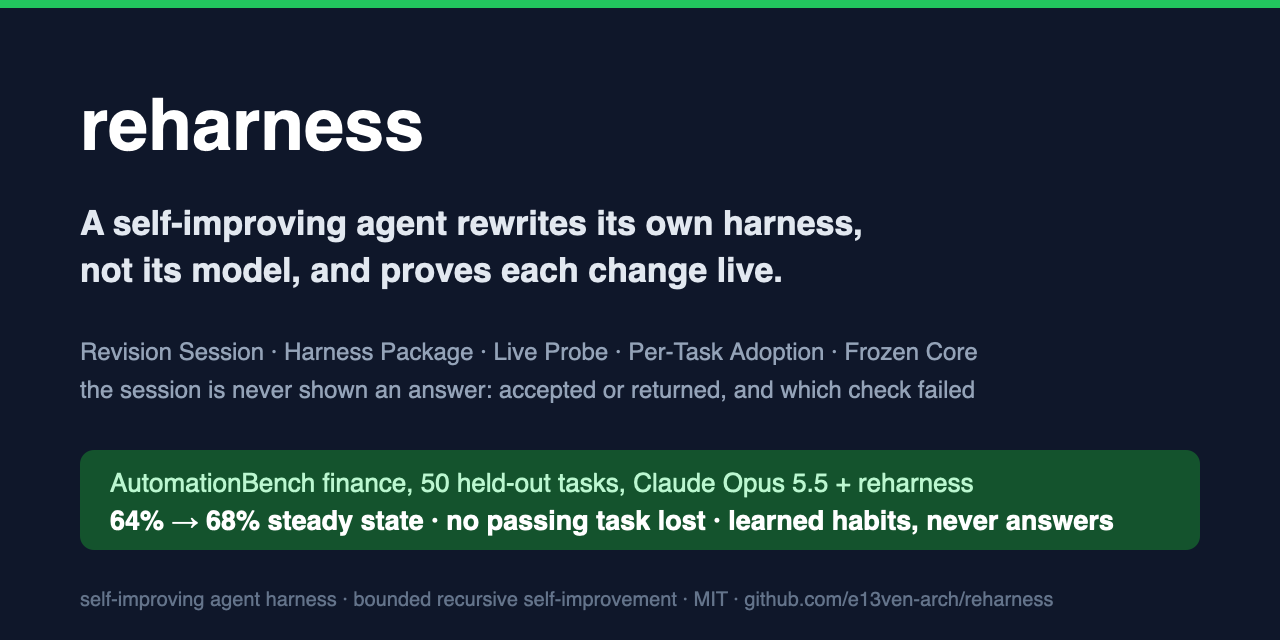
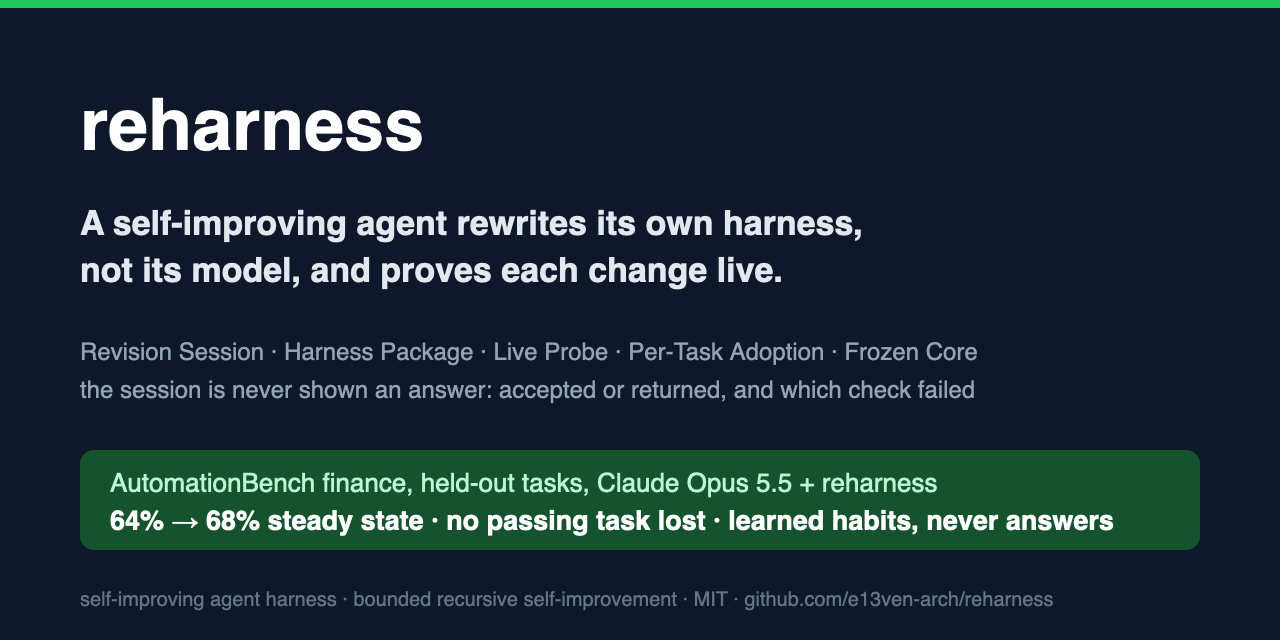
Results table as metrics only (the user: no "private set / all domains" wording, no task counts): leaderboard rows named plainly, the reharness rows by domain and setting; the intro and the social card drop the task count; GitHub About description, website and 18 topics set with gh repo edit at the 

Changed region(s): [[0.3125, 0.7188, 0.7812, 0.7812]]

diff --git a/docs/PLAN.md b/docs/PLAN.md
@@ -122,7 +122,7 @@
 | # | 事项 | 建议 |
 |---|---|---|
 | 0 | 2026-10-26 评审读者报的过时文档，未清（只影响读者，不影响运行）：IMPROVER §3～§7 的签名与代码漂移（`run_round`、`Evidence`、`diagnose`、`CodingSession`）、§1 仍把轮次说成改进器的全部；EVALUATE §3 接口块与 §5 接受规则是 v1.2 前的、§2 文件表漏 `repeat.py`；MEMORY §4 签名、§7.0/§9 的"待做"；RUNTIME §2 漏 `trace.py`、§4 协议表缺 `aux`/`read_only`；DESIGN 头部"状态：待用户审"、§4.3 三个站点、§5 memory 作为活跃组件、§6.1～§6.22 约 270 行描述已被取代的轮次回路；训练栈与 providers 的 docstring 引用已删的 docs/modules/*、ROADMAP、V0_6_DESIGN；tests/fake_upstream/README 与几处测试 docstring 同样。另：`apply_patch`、`ScriptedChat`、`write_guard` 的 `_42` 参数只剩测试在用 | 建议：开源后按读者的清单分两次清——先文档引用（$0，半天），再决定轮次回路、memory、训练栈是否整体归档到 tag |
-| 1 | 2026-10-24：finance-v18 学习臂跑完（50 道 test，$183.77）：**e1 32/50 → e3 34/50，+4.0 [−4.0, +12.0]**；18 道退单修 3 道且站住，零退步（JOURNAL 4o 一条的 v18 补记）。逐题读数（JOURNAL 同条）：15 道留 base 的题 7 道是数值 / 档位错、6 道是项目范围错、2 道是渠道错，R 的候选 12 道改在别处——一比特反馈不说哪一项错。已定（2026-10-24）：阶段 4p 专项——退回项反馈 + R 造工具，种子不动，只用两三道 train 题验证（DESIGN §6.24）。阶段 4p 收尾（JOURNAL 4p 一条的"整体效果"段）。finance-v24（effort max，三道 train 题，$61.11，4 小时）跑完：税额题 R 一个会话建全"读齐源 + 工具"并**稳态站住**（medium 三个活动没做到）；工时题 R 被 32k 输出上限截断、被接受的候选没交上去；grant 首遇在 max 下直接过。评审与清理（2026-10-26，JOURNAL 同日"评审与清理"一条）：工作流 11 读者 / 20 反驳 / 3 视角；删了 9 处验证过的死代码（231 行净减）、六份设计文档的迁移两节改成一行指向 tag；README 英 / 中按"故事怎么改"重写（回路开头、mermaid 架构图、How it works 六小节、What it achieves、留出回路降为一段）；发布稿含架构；示例 README、ACTIVITY §3、设计索引、finance-v18 头补齐。待清的过时文档见 §3。README 的两张图（2026-10-26，JOURNAL 同日"两张图"一条）：`docs/assets/architecture.svg`（组件与架构）与 `docs/assets/one-improvement.svg`（一次提升如何发生，税额题七格），README 英 / 中改用包装后的概念名（Revision Session、Live Probe、Per-Task Adoption……），发布稿的 mermaid 换成这两张图。两张图重画（2026-10-27，JOURNAL 同日一条；用户要严谨的逻辑而非实验记录）：评审工作流 5 视角 / 8 反驳 / 1 合成，结论图一混合体、图二实验记录；图一改为 K 四条不变量（Package Contract 含"包里没有答案"、Host-Side Scorer、Feedback Tier 作为唯一边界、Bounds）、W₀ + W_t、worker 虚线边界、准入门代替 Preflight Checks、采用框移到宿主一侧并画两条分支、五条不变量；图二改为评分器横带 + 三个菱形门 + 两条回边，例子降为无金额的灰带；README 英 / 中同步（四条不变量、候选与准入、去掉 "$0" 与"不可能弄坏"）。三个 README commit 已推送并合入 main（`fa52cf2`，2026-10-27，用户要求）。宣传语、结果一节、可发现性（2026-10-27，JOURNAL 同日一条）：新标语 "A self-improving agent rewrites its own harness, not its model, and proves each change live."；结果表改为榜单参照（Opus 5.5 42.47%、finance 最高 50.00%）+ reharness 最终效果三行；首段含检索词、结果徽章、CITATION.cff、Contributing 一节、pyproject 元数据、社交预览图。待用户：`gh repo edit` 改描述加 topics、上传预览图、推送与合入 main。改名 ouroloop → reharness（2026-10-26，用户选的；JOURNAL 同日一条）：包、CLI、环境变量 `REHARNESS_*`、镜像名、缓存目录、文档全部改；本机镜像重新打标签（id 不变）、缓存目录已移；GitHub 仓库名与本机目录名由用户改。开源打包（2026-10-26，用户"包装一下，准备开源"）：README（英 / 中）重写到 v2.1 的状态（重复流为主线、两张结果表、快速上手改为 `quickstart-repeat.toml`、命令表加 `repeat`）；RESULTS 加重复流一节；CONTRIBUTING；CI 的镜像查找修到 `reharness.runtime.worker`；pyproject 0.5.0；发布稿草案 `docs/history/ANNOUNCEMENT_DRAFT_2026-10-26.md`（未发）。用户（2026-10-25）："max 上抽样跑一下就好，测一下预期能够达到的效果，应该能做到 80 几。"第六刀（DESIGN §6.24）：max 预设 max_tokens 64,000；会话没 finish 的被接受 probe 由宿主声明并采用（假上游测试）。finance-v25（test 前 10 道、max）跑到 4 道完整（$67.70）被预算保护停掉：R 的一次调用 input 400,793 超过 `[pricing] max_input_tokens` 400,000 的预留上限（CLI 续写重发上下文）。4 道：e1 2/4 → e3 3/4（airtable 被 R 修好站住；late_fee 要 world 的时钟）。待用户定：(a) v26——`max_input_tokens` 放大到 1,200,000、`session_compact_tokens` 降到 80,000 让 R 的上下文更小，再把 `meta.current_time` 作为环境时钟交给 agent（适配器，先写设计），重跑 10 道约 $200；(b) 收尾。此前 v22 $6.29、v21 $4.17、v20 $10.72、v19 $7.55、v18 $183.77。此后待定：对照臂 50 × 3 base 约 $90（只在要讲 learn−control 时跑）；test 上用 items 反馈重跑学习臂约 $190（要对外讲时）。此前：v16 $51.06、v15 $9.60、v14 $31.59、v13 r0 $74.40 | 建议：代码与假上游测试完成后批 $30 跑一轮；过了再定要不要上 test |
+| 1 | 2026-10-24：finance-v18 学习臂跑完（50 道 test，$183.77）：**e1 32/50 → e3 34/50，+4.0 [−4.0, +12.0]**；18 道退单修 3 道且站住，零退步（JOURNAL 4o 一条的 v18 补记）。逐题读数（JOURNAL 同条）：15 道留 base 的题 7 道是数值 / 档位错、6 道是项目范围错、2 道是渠道错，R 的候选 12 道改在别处——一比特反馈不说哪一项错。已定（2026-10-24）：阶段 4p 专项——退回项反馈 + R 造工具，种子不动，只用两三道 train 题验证（DESIGN §6.24）。阶段 4p 收尾（JOURNAL 4p 一条的"整体效果"段）。finance-v24（effort max，三道 train 题，$61.11，4 小时）跑完：税额题 R 一个会话建全"读齐源 + 工具"并**稳态站住**（medium 三个活动没做到）；工时题 R 被 32k 输出上限截断、被接受的候选没交上去；grant 首遇在 max 下直接过。评审与清理（2026-10-26，JOURNAL 同日"评审与清理"一条）：工作流 11 读者 / 20 反驳 / 3 视角；删了 9 处验证过的死代码（231 行净减）、六份设计文档的迁移两节改成一行指向 tag；README 英 / 中按"故事怎么改"重写（回路开头、mermaid 架构图、How it works 六小节、What it achieves、留出回路降为一段）；发布稿含架构；示例 README、ACTIVITY §3、设计索引、finance-v18 头补齐。待清的过时文档见 §3。README 的两张图（2026-10-26，JOURNAL 同日"两张图"一条）：`docs/assets/architecture.svg`（组件与架构）与 `docs/assets/one-improvement.svg`（一次提升如何发生，税额题七格），README 英 / 中改用包装后的概念名（Revision Session、Live Probe、Per-Task Adoption……），发布稿的 mermaid 换成这两张图。两张图重画（2026-10-27，JOURNAL 同日一条；用户要严谨的逻辑而非实验记录）：评审工作流 5 视角 / 8 反驳 / 1 合成，结论图一混合体、图二实验记录；图一改为 K 四条不变量（Package Contract 含"包里没有答案"、Host-Side Scorer、Feedback Tier 作为唯一边界、Bounds）、W₀ + W_t、worker 虚线边界、准入门代替 Preflight Checks、采用框移到宿主一侧并画两条分支、五条不变量；图二改为评分器横带 + 三个菱形门 + 两条回边，例子降为无金额的灰带；README 英 / 中同步（四条不变量、候选与准入、去掉 "$0" 与"不可能弄坏"）。三个 README commit 已推送并合入 main（`fa52cf2`，2026-10-27，用户要求）。宣传语、结果一节、可发现性（2026-10-27，JOURNAL 同日一条）：新标语 "A self-improving agent rewrites its own harness, not its model, and proves each change live."；结果表改为榜单参照（Opus 5.5 42.47%、finance 最高 50.00%）+ reharness 最终效果三行；首段含检索词、结果徽章、CITATION.cff、Contributing 一节、pyproject 元数据、社交预览图。用户要求后（2026-10-27）：`gh repo edit` 已执行（About 描述、Website 指向结果一节、18 个 topics）；结果表去掉"私有集 / 全域"与题数，只留指标；推送并合入 main（见 §0.3 分支行）。待用户：上传 `docs/assets/social-preview.png` 为社交预览图、发布稿外发、awesome 列表 PR。改名 ouroloop → reharness（2026-10-26，用户选的；JOURNAL 同日一条）：包、CLI、环境变量 `REHARNESS_*`、镜像名、缓存目录、文档全部改；本机镜像重新打标签（id 不变）、缓存目录已移；GitHub 仓库名与本机目录名由用户改。开源打包（2026-10-26，用户"包装一下，准备开源"）：README（英 / 中）重写到 v2.1 的状态（重复流为主线、两张结果表、快速上手改为 `quickstart-repeat.toml`、命令表加 `repeat`）；RESULTS 加重复流一节；CONTRIBUTING；CI 的镜像查找修到 `reharness.runtime.worker`；pyproject 0.5.0；发布稿草案 `docs/history/ANNOUNCEMENT_DRAFT_2026-10-26.md`（未发）。用户（2026-10-25）："max 上抽样跑一下就好，测一下预期能够达到的效果，应该能做到 80 几。"第六刀（DESIGN §6.24）：max 预设 max_tokens 64,000；会话没 finish 的被接受 probe 由宿主声明并采用（假上游测试）。finance-v25（test 前 10 道、max）跑到 4 道完整（$67.70）被预算保护停掉：R 的一次调用 input 400,793 超过 `[pricing] max_input_tokens` 400,000 的预留上限（CLI 续写重发上下文）。4 道：e1 2/4 → e3 3/4（airtable 被 R 修好站住；late_fee 要 world 的时钟）。待用户定：(a) v26——`max_input_tokens` 放大到 1,200,000、`session_compact_tokens` 降到 80,000 让 R 的上下文更小，再把 `meta.current_time` 作为环境时钟交给 agent（适配器，先写设计），重跑 10 道约 $200；(b) 收尾。此前 v22 $6.29、v21 $4.17、v20 $10.72、v19 $7.55、v18 $183.77。此后待定：对照臂 50 × 3 base 约 $90（只在要讲 learn−control 时跑）；test 上用 items 反馈重跑学习臂约 $190（要对外讲时）。此前：v16 $51.06、v15 $9.60、v14 $31.59、v13 r0 $74.40 | 建议：代码与假上游测试完成后批 $30 跑一轮；过了再定要不要上 test |
 | 4 | R 的 effort 是否单独提到 high（Harness² 的大增益来自编辑器强于执行器；我们 actor 与 R 同一模型同一 effort，规则 9、10 只钉 actor 各臂）| 不在 4l 改；r1 仍 medium，先看 4l 自己的读数 |
 | 2 | finance-v8 不跑 release / final（W\* = W0，没有可测的东西）；工作区留着不动 | 是 |
 | 3 | README 主数的口径：final 两臂的绝对通过率与部分得分（公开集 test 份 50 题、medium effort、3 遍），配对差与区间作第二个数 | 是 |

diff --git a/README.md b/README.md
@@ -14,7 +14,7 @@
 
 reharness is a self-improving agent harness: bounded recursive self-improvement in which the agent's own model revises the harness the agent runs in, never the model. A business agent runs requests that repeat. When a request comes back returned, a **Revision Session** reads the agent's own run of it, changes the agent's **Harness Package** — its tools, hooks, skills, prompts — and proves the change with a **Live Probe**: the candidate runs the same request for real. Only a probe that comes back accepted is adopted, and only for that request (**Per-Task Adoption**). No person picks the change, no model judges it, and the session is never shown an answer: at most *accepted or returned* per attempt, and *which check failed*. Everything the session cannot touch is a **Frozen Core** — the scorer, what the session may be told, the package's contract, the bounds — and package code runs in an isolated worker. What the agent learns from its own runs is harness engineering — a guard, a tool, a prompt — not an answer.
 
-Built and measured on [AutomationBench](https://github.com/zapier/AutomationBench) (47 simulated SaaS tools, scored on the world state the agent leaves behind) with Claude Opus 5.5 as both the agent and the session, on a subscription budget. On the 50 finance test tasks the steady-state pass rate rose from 64% to 68% with no passing task lost; on train tasks a session learned, with no hint in its prompt, to open every unread source before writing and to derive figures by code.
+Built and measured on [AutomationBench](https://github.com/zapier/AutomationBench) (47 simulated SaaS tools, scored on the world state the agent leaves behind) with Claude Opus 5.5 as both the agent and the session, on a subscription budget. On the finance test tasks the steady-state pass rate rose from 64% to 68% with no passing task lost; on train tasks a session learned, with no hint in its prompt, to open every unread source before writing and to derive figures by code.
 
 <p align="center"><img src="docs/assets/architecture.svg" alt="Components and architecture: the Frozen Core K (Package Contract, Host-Side Scorer, Feedback Tier, Bounds) over the Harness Package W as W₀ and one W_t per task, the Isolated Worker as a boundary around the Host Transcript E, the Revision Session R with its admissibility gate and Live Probe, and Per-Task Adoption applied by the host" width="100%"></p>
 
@@ -91,13 +91,13 @@ The reference point is the model as it ships, on the official AutomationBench le
 
 | | Pass rate | Cost |
 |---|---|---|
-| Claude Opus 5.5 as published on the AutomationBench leaderboard, all domains (v1.0.6, private set) | 42.47% | — |
-| Best finance score on the leaderboard, any model (v1.0.6, private set) | 50.00% | — |
-| **Claude Opus 5.5 with reharness — finance, 50 held-out tasks, requests that repeat, steady state** | **68%** (+4.0 over the first pass, [−4.0, +12.0]; no passing task lost) | $184 |
-| Claude Opus 5.5 with reharness — finance, 25 held-out tasks, one evolved package for the domain | 62.7% (+8.0, [−4.0, +22.7]; each attempt 22% cheaper) | $210 |
-| Claude Opus 5.5 with reharness — Marketing, 23 held-out tasks, one evolved package for the domain | 54.3% (+13.0, [+2.2, +26.1]) | $153 |
+| Claude Opus 5.5 on the AutomationBench leaderboard | 42.47% | — |
+| Best finance score on the AutomationBench leaderboard | 50.00% | — |
+| **Claude Opus 5.5 with reharness — finance, requests that repeat, steady state** | **68%** (+4.0 over the first pass, [−4.0, +12.0]; no passing task lost) | $184 |
+| Claude Opus 5.5 with reharness — finance, one evolved package for the domain | 62.7% (+8.0, [−4.0, +22.7]; each attempt 22% cheaper) | $210 |
+| Claude Opus 5.5 with reharness — Marketing, one evolved package for the domain | 54.3% (+13.0, [+2.2, +26.1]) | $153 |
 
-The leaderboard scores a private set the benchmark describes as harder than the public one and promises only directional agreement between the two; the reharness rows are on the public set's held-out split, at effort medium. Costs are for the whole activity, in API-equivalent dollars.
+The leaderboard (v1.0.6) and these runs score different task sets at different settings, and the benchmark promises only directional agreement between them. Costs are for the whole activity, in API-equivalent dollars.
 
 What the loop learned: with the Acceptance Signal alone it corrected a third of the returned tasks and never touched a passing one; with the Rejected Checks and the Source Inventory it built generic mechanisms by itself — open every unread source before writing, derive figures by code — in independent sessions with none of those words in its prompt. The failures that remain are documented: ambiguities in a task's own documents that the signal cannot resolve, a world clock the agent is never told, and the benchmark's noise floor (10–17% of tasks flip between two runs of one package). Full records, every run: [docs/RESULTS.md](docs/RESULTS.md), [docs/JOURNAL.md](docs/JOURNAL.md).
 

diff --git a/docs/JOURNAL.md b/docs/JOURNAL.md
@@ -14,7 +14,7 @@
 
 **结果一节（用户："需要对比的是原始模型和用了我们框架之后的效果，只写分数提升就好，不要写多少次实验，成本可以计算进去，分数可以参考 automation bench 上面的数据"；随后"保留最终的效果和 automation 网站上原始模型跑出来的数据对比，框架本身的效果也是我们实现的，不用对比这个"）。** 一个 agent 查了 AutomationBench 官方榜单（zapier.com/benchmarks v1.0.6，2026-10-27 读取）：Claude Opus 5.5（默认回退，Max）总分 42.47%，finance 域最高 50.00%（Claude Sonnet 5.5 Max），Opus 5.5 的 finance 分未单列；榜单评私有、更难的题集，README 只承诺公开集与私有集"方向一致"。两份 README 的结果表改为：两行榜单参照（Opus 5.5 全域 42.47%、finance 最高 50.00%）+ 三行 reharness 最终效果（finance 50 道留出题稳态 68%，$184；finance 25 道 62.7%，$210；Marketing 23 道 54.3%，$153），不再列活动名与次数，base harness 那一列去掉；一句话注明题集不同、effort medium；榜单数与本地数不混排。
 
-**可发现性。** README 首段重写成含检索词的版本（self-improving agent harness、bounded recursive self-improvement、harness engineering），机制词汇不变；徽章行加一枚结果徽章（AutomationBench finance 64%→68% steady state，链到结果一节）；新增 `CITATION.cff`（GitHub 侧栏的 "Cite this repository"；version 0.5.0）；README 加 "Contributing / 参与贡献" 一节链到 CONTRIBUTING.md 与 Issues；pyproject 的 description 改用现在的词汇（去掉 improver、real try）、keywords 换成 topic 式的十个；社交预览图 `docs/assets/social-preview.svg` 与渲染好的 `social-preview.png`（1280×640，159 KB），供用户在仓库设置里上传。仓库侧还没做、要用户点头的：`gh repo edit` 改 About 描述与加 topics（公开内容）、Website 字段、Discussions；推送与合入 main。工作流还建议了 "Why this is different" 三条（与核心想法重复，没加）、路线图一节（涉及付费运行的承诺，留给用户定）、Show HN / Reddit / 知乎发帖与 awesome 列表 PR（只能用户做）。
+**可发现性。** README 首段重写成含检索词的版本（self-improving agent harness、bounded recursive self-improvement、harness engineering），机制词汇不变；徽章行加一枚结果徽章（AutomationBench finance 64%→68% steady state，链到结果一节）；新增 `CITATION.cff`（GitHub 侧栏的 "Cite this repository"；version 0.5.0）；README 加 "Contributing / 参与贡献" 一节链到 CONTRIBUTING.md 与 Issues；pyproject 的 description 改用现在的词汇（去掉 improver、real try）、keywords 换成 topic 式的十个；社交预览图 `docs/assets/social-preview.svg` 与渲染好的 `social-preview.png`（1280×640，159 KB），供用户在仓库设置里上传。用户点头后执行了 `gh repo edit`（About 描述、Website 指向结果一节、18 个 topics；Discussions 没开），结果表按用户要求去掉"私有集 / 全域"字眼与题数，只留指标；推送并合入 main。工作流还建议了 "Why this is different" 三条（与核心想法重复，没加）、路线图一节（涉及付费运行的承诺，留给用户定）、Show HN / Reddit / 知乎发帖与 awesome 列表 PR（只能用户做）。
 ---
 
 ## 2026-10-27 两张图重画：只画约束与边界、把规则画成门；$0
